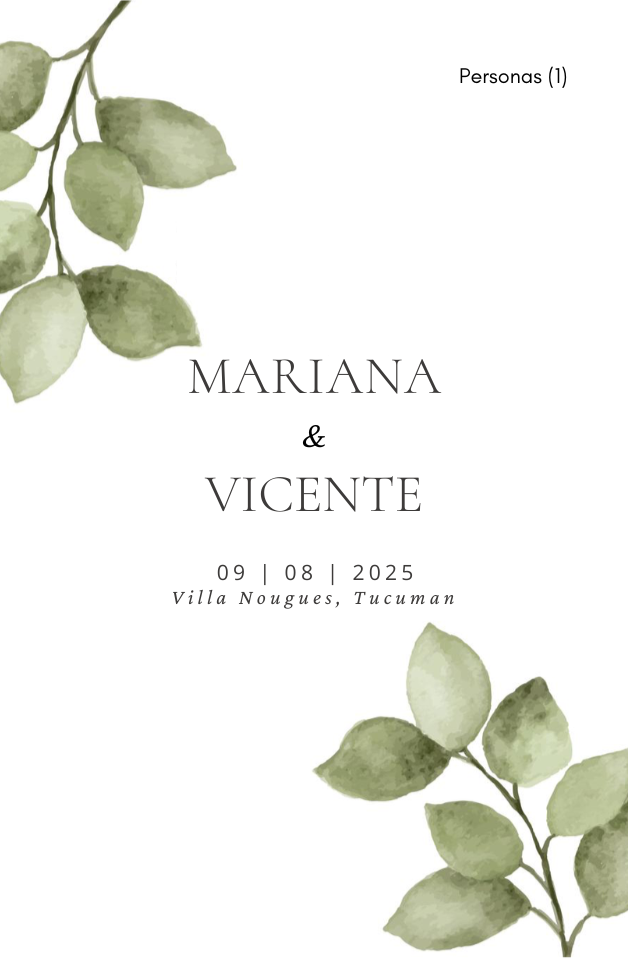
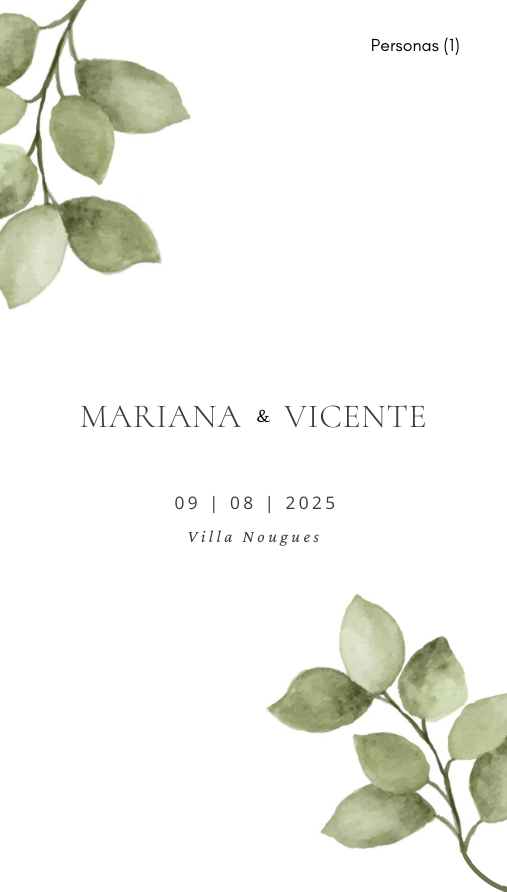
4 links

diff --git a/src/app/Mariana&Vicente(x2fiesta)/page.jsx b/src/app/Mariana&Vicente(x2fiesta)/page.jsx
@@ -4,8 +4,8 @@ import Banner from "@/components/home/Home";
 import Mas from "@/components/mas/Mas";
 import Regalos from "@/components/regalos/Regalos";
 import Footer from "@/components/footer/Footer";
-import imgSquare2 from "../../../public/marianaVicente/portadaMV1.png";
-import imgppal from "../../../public/marianaVicente/portadaMV1.png";
+import imgSquare2 from "../../../public/marianaVicente/portadaMV2.png";
+import imgppal from "../../../public/marianaVicente/portadaMV2.png";
 import { Cormorant_Garamond } from "next/font/google";
 import React from "react";
 
@@ -65,14 +65,11 @@ CUIL: 27-37191501-5
         />
       <Event
       extra={false}
-        ceremonia
-        lugarCeremonia="Iglesia de Villa Nougués"
-        linkCeremonia="https://maps.app.goo.gl/CcQLgFAwshoPwPU5A"
-        horarioCeremonia="12.30 hs"
+        ceremonia={false}
         fiesta
-        lugarFiesta="Después de la ceremonia, te esperamos para la recepción"
+        lugarFiesta="Hosteria de Villa Nougués"
         linkFiesta="https://maps.app.goo.gl/Zx6qX7T4kK4NQf886"
-        horarioFiesta="Hostería de Villa Nougués"
+        horarioFiesta="17.30 hs"
         buttonClassColors={`${buttonBgColor} ${buttonTextColor} ${buttonHoverColor}`}
         textColor={textColor}
       />

diff --git a/src/app/Mariana&Vicente(x1fiesta)/page.jsx b/src/app/Mariana&Vicente(x1fiesta)/page.jsx
@@ -65,14 +65,11 @@ CUIL: 27-37191501-5
         />
       <Event
       extra={false}
-        ceremonia
-        lugarCeremonia="Iglesia de Villa Nougués"
-        linkCeremonia="https://maps.app.goo.gl/CcQLgFAwshoPwPU5A"
-        horarioCeremonia="12.30 hs"
+        ceremonia={false}
         fiesta
-        lugarFiesta="Después de la ceremonia, te esperamos para la recepción"
+        lugarFiesta="Hosteria de Villa Nougués"
         linkFiesta="https://maps.app.goo.gl/Zx6qX7T4kK4NQf886"
-        horarioFiesta="Hostería de Villa Nougués"
+        horarioFiesta="17.30 hs"
         buttonClassColors={`${buttonBgColor} ${buttonTextColor} ${buttonHoverColor}`}
         textColor={textColor}
       />

diff --git a/src/app/Mariana&Vicente(x2)/page.jsx b/src/app/Mariana&Vicente(x2)/page.jsx
@@ -4,8 +4,8 @@ import Banner from "@/components/home/Home";
 import Mas from "@/components/mas/Mas";
 import Regalos from "@/components/regalos/Regalos";
 import Footer from "@/components/footer/Footer";
-import imgSquare2 from "../../../public/marianaVicente/portadaMV1.png";
-import imgppal from "../../../public/marianaVicente/portadaMV1.png";
+import imgSquare2 from "../../../public/marianaVicente/portadaMV2.png";
+import imgppal from "../../../public/marianaVicente/portadaMV2.png";
 import { Cormorant_Garamond } from "next/font/google";
 import React from "react";
 
